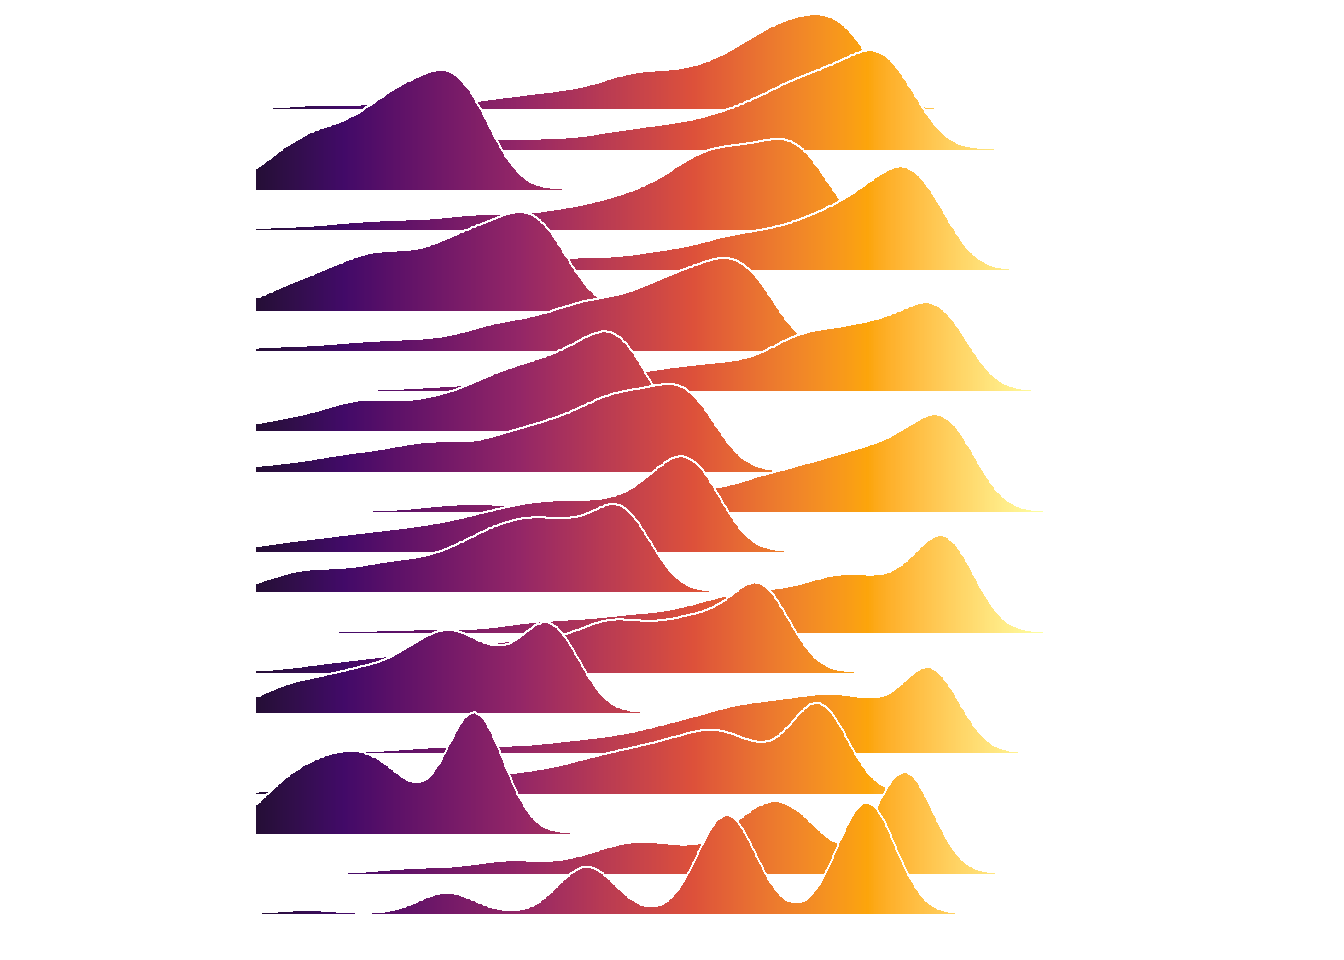
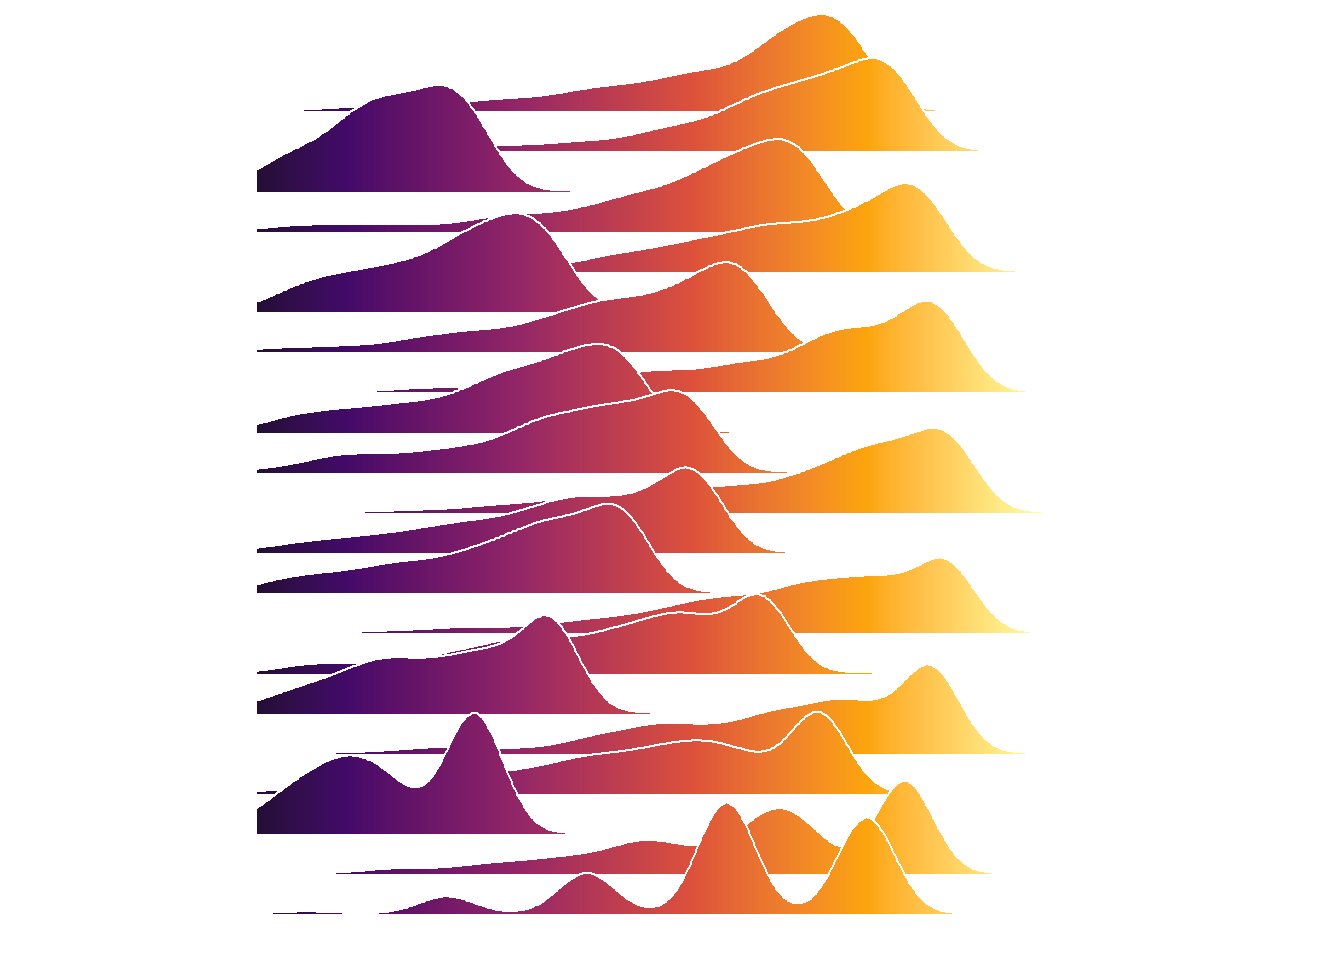
added disqus

diff --git a/content/post/2018-08-03-first-post.html b/content/post/2018-08-03-first-post.html
@@ -23,6 +23,7 @@ summary: Short Blogpost describing how to create the logo.
 
 
 
+{{% image classes="center" src="../../../logo.png" thumbnail="../../../logo.png" thumbnail-width="180px" thumbnail-height="180px" %}}
 <p>Welcome to my data science blog <code>datistics</code> where I will gradually post all the vignettes and programming POC’s that I have written over the past two years. Most of them can be already found in my <a href="https://github.com/erblast/">github repository</a>.</p>
 <p>
 </p>
@@ -102,7 +103,7 @@ df %&gt;%
 }
 
 joyplot(df)</code></pre>
-<pre><code>## Picking joint bandwidth of 0.24</code></pre>
+<pre><code>## Picking joint bandwidth of 0.234</code></pre>
 <p><img src="/post/2018-08-03-first-post_files/figure-html/joyplot1-1.png" width="672" /></p>
 <p>I order to distribute them a bit better over the x-axis we will transform them using a sine wave pattern.</p>
 <pre class="r"><code>df = tibble( p = seq(1,2,0.05)
@@ -118,6 +119,6 @@ joyplot(df)</code></pre>
 
 
 joyplot(df)</code></pre>
-<pre><code>## Picking joint bandwidth of 0.206</code></pre>
+<pre><code>## Picking joint bandwidth of 0.204</code></pre>
 <p><img src="/post/2018-08-03-first-post_files/figure-html/joyplot2-1.png" width="672" /></p>
 </div>

diff --git a/content/post/2018-08-11-post_with_jupyter.md b/content/post/2018-08-11-post_with_jupyter.md
@@ -1,12 +1,6 @@
 ---
-thumbnailImage : https://gitlab.eurecom.fr/zoe-apps/pytorch/avatar
-summary : Blogging with jupyter notebooks, hugo_jupyter and some tweaking. Comparison to                           R and blogdown
-thumbnailImagePosition : left
-date : 2018-08-11
+slug : post_with_jupyter
 author : Bjoern Koneswarakantha
-categories: 
-  - R vs. python
-  - blogging
 tags: 
   - R vs. python
   - hugo
@@ -14,23 +8,35 @@ tags:
   - R
   - hugo
   - hugo_jupyer
-slug : post_with_jupyter
+date : 2018-08-11
+categories: 
+  - R vs. python
+  - blogging
+thumbnailImagePosition : left
 title : Adding posts as jupyter notebooks
+summary : Blogging with jupyter notebooks, hugo_jupyter and some tweaking. Comparison to                           R and blogdown
+thumbnailImage : https://gitlab.eurecom.fr/zoe-apps/pytorch/avatar
 ---
+
+{{< image classes="center" src="https://gitlab.eurecom.fr/zoe-apps/pytorch/avatar" thumbnail="https://gitlab.eurecom.fr/zoe-apps/pytorch/avatar" thumbnail-width="180px" thumbnail-height="180px">}}
 
 
 <!-- toc -->
 
 
 {{< alert warning >}}
-The paths mentioned in this post only apply when the following configuration is set in your `.toml` file:
-<br></br>
+The file paths mentioned in this post only apply when the following configuration is set in your '.toml' file:
+```
+
 [permalinks]
-<br></br>  post = "/:year/:month/:slug/"
+    post = "/:year/:month/:slug/"
+```
 
 {{< /alert >}}
 
+
 # hugo_jupyter
+
 
 Starting this blog with `blogdown` and `RStudio` was pretty straight forward. I did not need to learn much about `hugo` which is the static website generator that I used and the project is well-documented. However I would also like to add posts from `juypter notebooks` which seems to be possible but let's say less accessible. The tool I tried is [`hugo_jupyter`](https://github.com/knowsuchagency/hugo_jupyter) which is supposed to work similar to `blogdown`. It runs a local server of the website which automatically rerenders the site if changes are made in relevant folders. The same can also be achieved if executing this simple hugo command inside the parent folder of your site (You have to open your browser and copy paste the displayed local host address though).
 
@@ -76,7 +82,7 @@ path = r'./notebooks/adding_posts_with_juypter.ipynb'
 # here I customize some functions of the fabfile.py of the hugo_jupyter package
 
 class CustomPreprocessor(Preprocessor):
-    """Remove blank code cells and unnecessary whitespace."""
+    """Remove blank code cells and unnecessary whitespace."""2
 
     def preprocess(self, nb, resources):
         """
